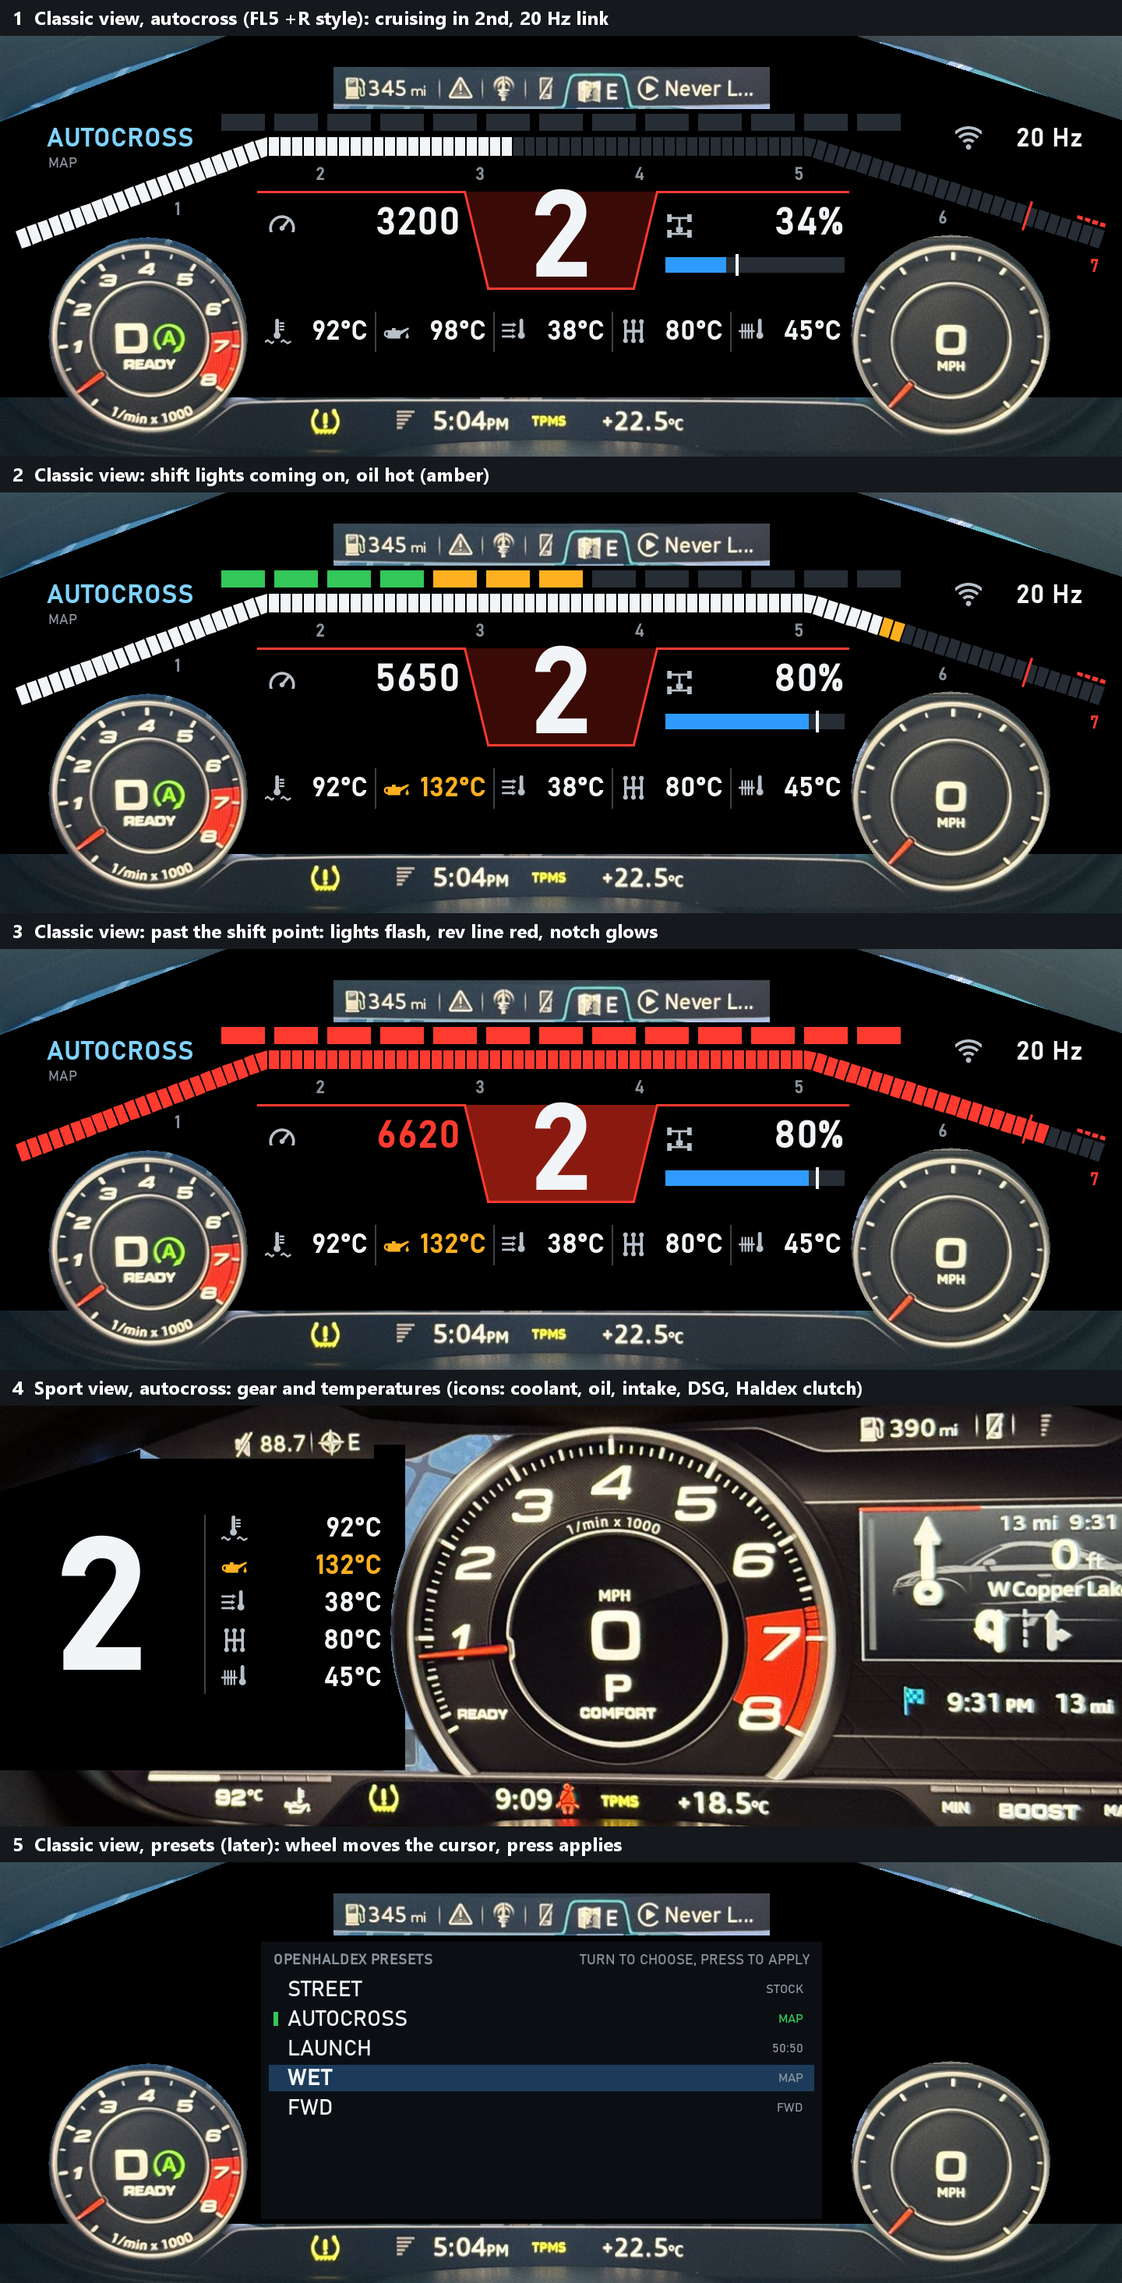
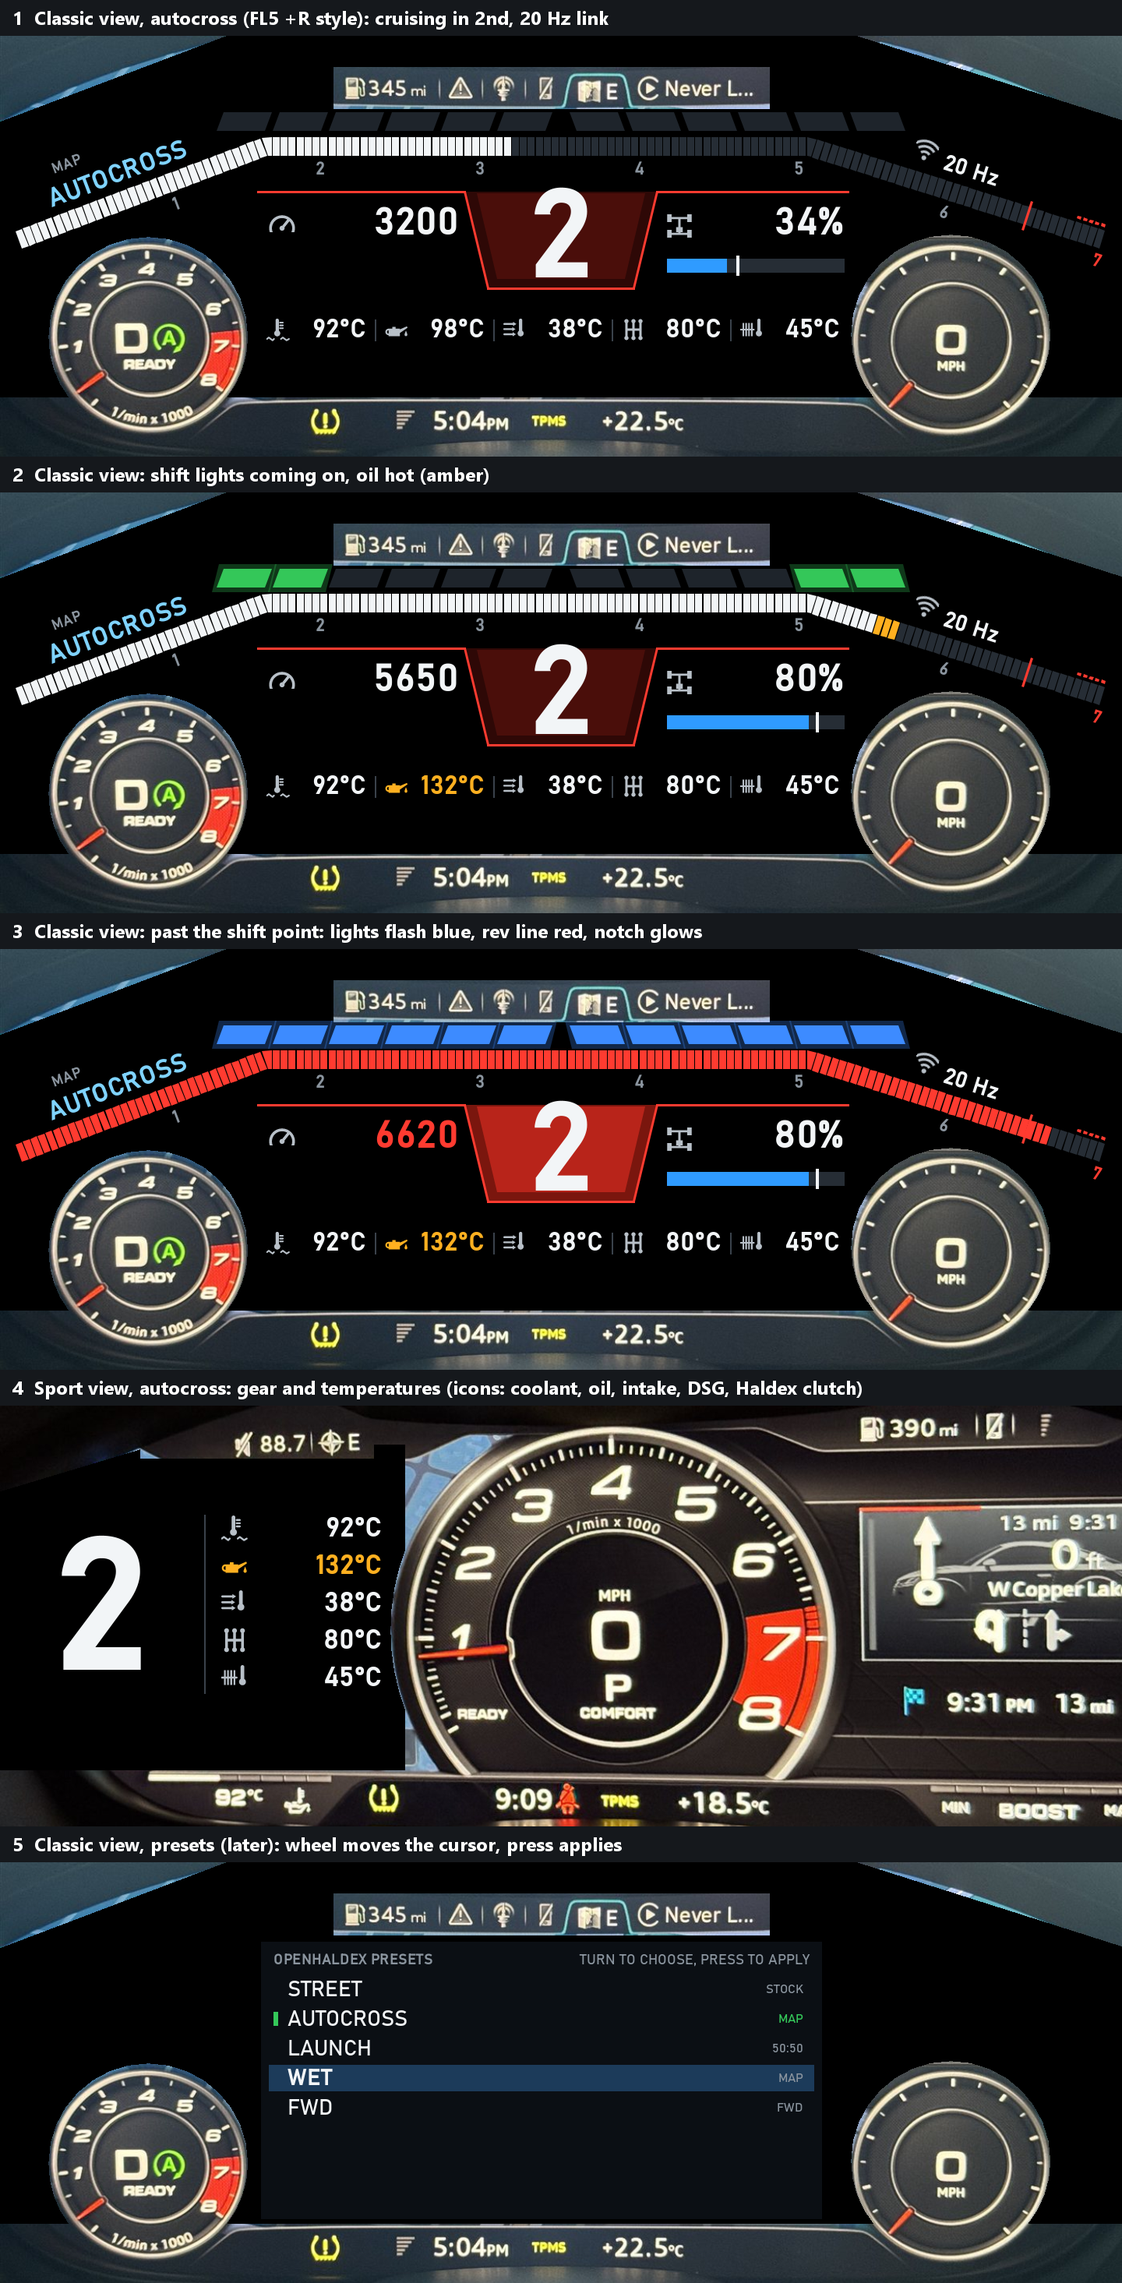
Telemetry: converging slanted shift lights with glow and blue shift flash, text tilted along the slopes, polish

diff --git a/ports/tt-8s-mu1462/hmi/src/local/tt/TeleLayout.java b/ports/tt-8s-mu1462/hmi/src/local/tt/TeleLayout.java
@@ -7,12 +7,13 @@ package local.tt;
  * It fills the whole cockpit screen with an opaque background, so no map shows. The cluster's own
  * dials, tab bar, bottom bar and the frame over the top corners are drawn above our layer, so the
  * layout keeps clear of them.
- *  - Large (Classic) view, after the FL5 Civic Type R's +R screen: shift lights under the tab bar;
+ *  - Large (Classic) view, after the FL5 Civic Type R's +R screen: slanted shift lights under the
+ *    tab bar, lighting from both ends to the middle and flashing blue at the shift point;
  *    a rev line in straight pieces following the cluster housing (up the left slope, across, down
  *    the right slope), numbers under it; a red line across with a notch in the middle holding a big
  *    gear; rpm left of the notch, Haldex lock right of it; the active preset in the pocket above the
- *    left slope, link status above the right slope (the very top corners are covered by the
- *    cluster's frame); the five temperatures in a row at the bottom, one icon per value, in C.
+ *    left slope, link status above the right slope, both tilted along the slope (the very top
+ *    corners are covered by the cluster's frame); the five temperatures in a row at the bottom, one icon per value, in C.
  *    No speed: the stock speedometer shows it.
  *  - Small (Sport) view: only the map area left of the big rev counter is ours: gear and engine
  *    temperatures, one icon per value.
@@ -42,7 +43,7 @@ public final class TeleLayout {
     public static final int LEFT = 0;
     public static final int CENTER = 1;
     public static final int RIGHT = 2;
-    public static final int MAX = 200;
+    public static final int MAX = 300;
     public static final int CHANNELS = 64;
     public static final int MAXPRESET = 8;
     public static final int SCREEN_W = 1440;
@@ -71,8 +72,12 @@ public final class TeleLayout {
     public static final int GREEN = 0x34C759FF;
     public static final int AMBER = 0xFFB020FF;
     public static final int RED = 0xFF3B30FF;
-    public static final int NOTCH = 0x3A0A07FF;
-    public static final int NOTCH_HOT = 0x8A1A10FF;
+    public static final int NOTCH = 0x2E0806FF;
+    public static final int NOTCH_IN = 0x4A0E0AFF;
+    public static final int NOTCH_HOT = 0x7A160EFF;
+    public static final int NOTCH_HOT_IN = 0xB8241AFF;
+    public static final int LED_OFF = 0x1E242BFF;
+    public static final int SHIFT = 0x3D8BFFFF;
     public static final int HALDEX = 0x2F9BFFFF;
     public static final int PRESET = 0x7FD3FFFF;
     public static final int COLD = 0x5AC8FAFF;
@@ -97,15 +102,16 @@ public final class TeleLayout {
     private static final int[] TP_X = {24, 341, 1038, 1416};
     private static final int[] TP_Y = {262, 142, 142, 262};
     private static final int TP_HALF = 12;
-    private static final int TP_SEGS = 96;
-    // Shift lights: LEDS in a row under the tab bar, LED_STEP rpm apart up to the shift point.
-    private static final int LEDS = 13;
-    private static final int LED_STEP = 125;
+    private static final int TP_SEGS = 140;
+    // Shift lights: LEDS_SIDE per side under the tab bar, lighting from both ends towards the
+    // middle, LED_STEP rpm apart up to the shift point.
+    private static final int LEDS_SIDE = 6;
+    private static final int LED_STEP = 200;
     // Red line and the notch holding the gear.
     private static final int LINE_Y = 200;
     private static final int NOTCH_X0 = 596;
     private static final int NOTCH_X1 = 844;
-    private static final int NOTCH_IN = 30;
+    private static final int NOTCH_SLOPE = 30;
     private static final int NOTCH_Y = 324;
     // Temperature row between the dials, under the notch.
     private static final int GRID_X0 = 330;
@@ -149,6 +155,8 @@ public final class TeleLayout {
     public final boolean[] bold = new boolean[MAX];
     public final boolean[] vis = new boolean[MAX];
     public final String[] text = new String[MAX];
+    /** Rotation in degrees, clockwise on screen, around the slot's (x, y). Texts and icons only. */
+    public final float[] rot = new float[MAX];
     /** Quad corners, 4 per slot (qx[4 * i + k]); x/y/w/h hold the quad's bounding box. */
     public final int[] qx = new int[MAX * 4];
     public final int[] qy = new int[MAX * 4];
@@ -175,31 +183,43 @@ public final class TeleLayout {
         boolean limit = link && rpm >= limitRpm;
         int vc = link ? WHITE : GREY;
 
-        // Shift lights under the tab bar: green, amber, red over the last LEDS * LED_STEP rpm, all
-        // red and flashing from the shift point.
-        int lw = 56;
-        int lgap = 12;
-        int lx = 720 - (LEDS * (lw + lgap) - lgap) / 2;
-        for (int i = 0; i < LEDS; i++) {
-            int on = shiftRpm - (LEDS - i) * LED_STEP;
-            int c;
-            if (over)
-                c = blink ? RED : DIM;
-            else if (link && rpm >= on)
-                c = i < 4 ? GREEN : i < 9 ? AMBER : RED;
-            else
-                c = DIM;
-            box(lx + i * (lw + lgap), 100, lw, 22, c, true);
+        // Shift lights under the tab bar, slanted like the housing's slopes, lighting from both
+        // ends towards the middle: green, amber, red over the last LEDS_SIDE * LED_STEP rpm. From
+        // the shift point all of them flash blue, so "shift now" never looks like the red zone.
+        // A lit light gets a soft glow behind it.
+        int lw = 62;
+        int lh = 24;
+        int lgap = 10;
+        int mid = 40;
+        int sk = 9;
+        int ly = 98;
+        for (int side = 0; side < 2; side++) {
+            for (int i = 0; i < LEDS_SIDE; i++) {
+                int on = shiftRpm - (LEDS_SIDE - i) * LED_STEP;
+                boolean lit = link && (over ? blink : rpm >= on);
+                int c = !lit ? LED_OFF : over ? SHIFT : i < 2 ? GREEN : i < 4 ? AMBER : RED;
+                int x0;
+                if (side == 0)
+                    x0 = 720 - mid / 2 - (LEDS_SIDE - i) * (lw + lgap) + lgap;
+                else
+                    x0 = 720 + mid / 2 + (LEDS_SIDE - 1 - i) * (lw + lgap);
+                int x1 = x0 + lw;
+                int t = side == 0 ? sk : -sk; // top edge shifted: "/" on the left, "\" on the right
+                int g = 6;
+                quad(x0 + t - g, ly - g, x1 + t + g, ly - g, x1 + g, ly + lh + g, x0 - g, ly + lh + g,
+                    (c & 0xFFFFFF00) | 0x48, lit);
+                quad(x0 + t, ly, x1 + t, ly, x1, ly + lh, x0, ly + lh, c, true);
+            }
         }
 
         // Rev line: white, amber in the last 1000 rpm before the shift point, all red from it, the
         // whole line flashing at the limiter. Red marks over the limiter range, a red tick at the
-        // shift point, 1..7 under the line.
+        // shift point, 1..7 under the line, tilted with it on the slopes.
         double len = tpLen();
         int span = barToRpm - barFromRpm;
         for (int i = 0; i < TP_SEGS; i++) {
             double s0 = len * i / TP_SEGS;
-            double s1 = len * (i + 1) / TP_SEGS - 2;
+            double s1 = len * (i + 1) / TP_SEGS - 1.2;
             int from = barFromRpm + span * i / TP_SEGS;
             int c;
             if (limit)
@@ -215,56 +235,85 @@ public final class TeleLayout {
             band(s0, s1, -TP_HALF, TP_HALF, c, true);
         }
         double sl = len * (limitRpm - barFromRpm) / span;
-        for (int i = 0; i < 4; i++)
-            band(sl + (len - sl) * i / 4, sl + (len - sl) * (i + 1) / 4 - 3, TP_HALF + 4, TP_HALF + 9, RED,
+        for (int i = 0; i < 5; i++)
+            band(sl + (len - sl) * i / 5, sl + (len - sl) * (i + 1) / 5 - 3, TP_HALF + 4, TP_HALF + 8, RED,
                 limitRpm < barToRpm);
         double ss = len * (shiftRpm - barFromRpm) / span;
         band(ss - 1.5, ss + 1.5, -TP_HALF - 7, TP_HALF + 7, RED, shiftRpm > barFromRpm && shiftRpm < barToRpm);
         for (int k = (barFromRpm + 999) / 1000; k * 1000 <= barToRpm; k++) {
             if (k == 0)
                 continue;
-            tp(len * (k * 1000 - barFromRpm) / span, pa);
-            text((int) Math.round(pa[0] - pa[2] * 36), (int) Math.round(pa[1] - pa[3] * 36) - 11, 22, true, CENTER,
+            slopeText(len * (k * 1000 - barFromRpm) / span, -(TP_HALF + 6), 22, true, CENTER,
                 k * 1000 >= shiftRpm ? RED : GREY, Integer.toString(k), true);
         }
 
-        // Red line across with the notch; the notch glows brighter from the shift point. Gear in it.
-        quad(NOTCH_X0, LINE_Y, NOTCH_X1, LINE_Y, NOTCH_X1 - NOTCH_IN, NOTCH_Y, NOTCH_X0 + NOTCH_IN, NOTCH_Y,
+        // Red line across with the notch: two layers for depth, glowing from the shift point.
+        int ni = 12;
+        quad(NOTCH_X0, LINE_Y, NOTCH_X1, LINE_Y, NOTCH_X1 - NOTCH_SLOPE, NOTCH_Y, NOTCH_X0 + NOTCH_SLOPE, NOTCH_Y,
             over ? NOTCH_HOT : NOTCH, true);
+        quad(NOTCH_X0 + ni + 4, LINE_Y + 2, NOTCH_X1 - ni - 4, LINE_Y + 2, NOTCH_X1 - NOTCH_SLOPE - ni,
+            NOTCH_Y - ni, NOTCH_X0 + NOTCH_SLOPE + ni, NOTCH_Y - ni, over ? NOTCH_HOT_IN : NOTCH_IN, true);
         box(GRID_X0, LINE_Y - 1, NOTCH_X0 - GRID_X0 + 2, 3, RED, true);
         box(NOTCH_X1 - 2, LINE_Y - 1, GRID_X1 - NOTCH_X1 + 2, 3, RED, true);
-        quad(NOTCH_X0 - 1, LINE_Y, NOTCH_X0 + 2, LINE_Y, NOTCH_X0 + NOTCH_IN + 2, NOTCH_Y,
-            NOTCH_X0 + NOTCH_IN - 1, NOTCH_Y, RED, true);
-        quad(NOTCH_X1 - 2, LINE_Y, NOTCH_X1 + 1, LINE_Y, NOTCH_X1 - NOTCH_IN + 1, NOTCH_Y,
-            NOTCH_X1 - NOTCH_IN - 2, NOTCH_Y, RED, true);
-        box(NOTCH_X0 + NOTCH_IN - 1, NOTCH_Y - 1, NOTCH_X1 - NOTCH_X0 - 2 * NOTCH_IN + 2, 3, RED, true);
+        quad(NOTCH_X0 - 1, LINE_Y, NOTCH_X0 + 2, LINE_Y, NOTCH_X0 + NOTCH_SLOPE + 2, NOTCH_Y,
+            NOTCH_X0 + NOTCH_SLOPE - 1, NOTCH_Y, RED, true);
+        quad(NOTCH_X1 - 2, LINE_Y, NOTCH_X1 + 1, LINE_Y, NOTCH_X1 - NOTCH_SLOPE + 1, NOTCH_Y,
+            NOTCH_X1 - NOTCH_SLOPE - 2, NOTCH_Y, RED, true);
+        box(NOTCH_X0 + NOTCH_SLOPE - 1, NOTCH_Y - 1, NOTCH_X1 - NOTCH_X0 - 2 * NOTCH_SLOPE + 2, 3, RED, true);
         int gc = !link ? GREY : limit && !blink ? RED : WHITE; // the notch carries the shift cue
-        text(720, 186, 150, true, CENTER, gc, gear(), true);
+        text(720, 184, 154, true, CENTER, gc, gear(), true);
 
-        // Top-left pocket, above the rising slope: the active OpenHaldex preset and its mode.
-        text(60, 116, 32, true, LEFT, link ? PRESET : GREY, presetName(), true);
-        text(62, 154, 18, false, LEFT, GREY, presetMode(), true);
+        // Top-left pocket, along the rising slope: the active OpenHaldex preset, its mode above it.
+        double l0 = segLen(0);
+        slopeText(l0 * 0.16, TP_HALF + 12, 32, true, LEFT, link ? PRESET : GREY, presetName(), true);
+        slopeText(l0 * 0.16 + 18, TP_HALF + 52, 18, true, LEFT, GREY, presetMode(), true);
 
-        // Top-right pocket, above the falling slope: the link to OpenHaldex, datagrams per second.
+        // Top-right pocket, along the falling slope: the link to OpenHaldex, datagrams per second.
+        double r0 = len - segLen(TP_X.length - 2);
         boolean slow = link && rateHz >= 0 && rateHz < 10;
-        icon(1226, 114, 34, TeleIcons.WIFI, link && !slow ? ICONC : AMBER, true);
-        text(1390, 116, 32, true, RIGHT, link && !slow ? WHITE : AMBER, linkText(), true);
+        slopeIcon(r0 + 130, TP_HALF + 14, 30, TeleIcons.WIFI, link && !slow ? ICONC : AMBER, true);
+        slopeText(r0 + 172, TP_HALF + 12, 28, true, LEFT, link && !slow ? WHITE : AMBER, linkText(), true);
 
         // Left of the notch: rpm. Right of it: Haldex lock, big percent over a bar with target tick.
         icon(GRID_X0 + 14, 226, 36, TeleIcons.TACH, ICONC, true);
-        text(NOTCH_X0 - 6, 216, 48, true, RIGHT, over ? RED : vc, ok(CH_RPM) ? Integer.toString(rpm) : "-", link);
-        text(NOTCH_X0 - 6, 216, 34, true, RIGHT, AMBER, "NO LINK", !link);
+        text(NOTCH_X0 - 8, 216, 48, true, RIGHT, over ? RED : vc, ok(CH_RPM) ? Integer.toString(rpm) : "-", link);
+        text(NOTCH_X0 - 8, 220, 34, true, RIGHT, AMBER, "NO LINK", !link);
         icon(NOTCH_X1 + 10, 226, 36, TeleIcons.AWD, ICONC, true);
-        hxBar(NOTCH_X1 + 10, 284, GRID_X1 - NOTCH_X1 - 16, 20, GRID_X1 - 6, 216, 48);
+        hxBar(NOTCH_X1 + 12, 286, GRID_X1 - NOTCH_X1 - 18, 18, GRID_X1 - 6, 216, 48);
 
-        // Temperatures in one row, an icon and a value in each cell.
+        // Temperatures in one row, an icon and a value in each cell, short dividers between.
         int cw = (GRID_X1 - GRID_X0) / T_CH.length;
         for (int t = 0; t < T_CH.length; t++) {
             int cx0 = GRID_X0 + t * cw;
             if (t > 0)
-                box(cx0 - 1, GRID_Y - 8, 2, 52, LINE, true);
-            tempCell(t, cx0 + 10, cx0 + cw - 10, GRID_Y, 34, 34, rpm);
+                box(cx0 - 1, GRID_Y + 2, 2, 28, LINE, true);
+            tempCell(t, cx0 + 12, cx0 + cw - 12, GRID_Y, 30, 32, rpm);
         }
+    }
+
+    /** Text along the rev line at length s, off px out from its centre (negative: under it). */
+    private void slopeText(double s, double off, int sz, boolean b, int al, int c, String str, boolean v) {
+        tp(s, pa);
+        double out = off >= 0 ? off + 0.82 * sz : off; // anchor is the text's top edge
+        int i = add(TEXT, rd(pa[0] + pa[2] * out), rd(pa[1] + pa[3] * out), 0, sz, c, v && str != null);
+        size[i] = sz;
+        bold[i] = b;
+        align[i] = al;
+        text[i] = str;
+        rot[i] = (float) Math.toDegrees(Math.atan2(pa[2], -pa[3]));
+    }
+
+    /** Icon standing on the rev line at length s, its bottom edge off px out from the centre. */
+    private void slopeIcon(double s, double off, int px, int id, int c, boolean v) {
+        tp(s, pa);
+        double out = off + px;
+        int i = add(ICON, rd(pa[0] + pa[2] * out), rd(pa[1] + pa[3] * out), px, px, c, v);
+        size[i] = id;
+        rot[i] = (float) Math.toDegrees(Math.atan2(pa[2], -pa[3]));
+    }
+
+    private static double segLen(int k) {
+        return Math.sqrt(sq(TP_X[k + 1] - TP_X[k]) + sq(TP_Y[k + 1] - TP_Y[k]));
     }
 
     private String linkText() {
@@ -476,6 +525,7 @@ public final class TeleLayout {
         size[i] = 0;
         bold[i] = false;
         align[i] = LEFT;
+        rot[i] = 0;
         return i;
     }
 

diff --git a/ports/tt-8s-mu1462/gauges/tools/TelePreview.java b/ports/tt-8s-mu1462/gauges/tools/TelePreview.java
@@ -40,7 +40,7 @@ public class TelePreview {
         String[] caps = {
             "1  Classic view, autocross (FL5 +R style): cruising in 2nd, 20 Hz link",
             "2  Classic view: shift lights coming on, oil hot (amber)",
-            "3  Classic view: past the shift point: lights flash, rev line red, notch glows",
+            "3  Classic view: past the shift point: lights flash blue, rev line red, notch glows",
             "4  Sport view, autocross: gear and temperatures (icons: coolant, oil, intake, DSG, Haldex clutch)",
             "5  Classic view, presets (later): wheel moves the cursor, press applies"};
         BufferedImage out = new BufferedImage(1440, caps.length * (540 + CAP), BufferedImage.TYPE_INT_RGB);
@@ -153,6 +153,9 @@ public class TelePreview {
             if (!t.vis[i])
                 continue;
             int c = t.rgba[i];
+            java.awt.geom.AffineTransform saved = g.getTransform();
+            if (t.rot[i] != 0)
+                g.rotate(Math.toRadians(t.rot[i]), t.x[i], t.y[i]);
             g.setColor(new Color((c >>> 24) & 0xFF, (c >>> 16) & 0xFF, (c >>> 8) & 0xFF, c & 0xFF));
             if (t.kind[i] == TeleLayout.BOX) {
                 g.fillRect(t.x[i], t.y[i], t.w[i], t.h[i]);
@@ -181,6 +184,7 @@ public class TelePreview {
                     x -= tw;
                 g.drawString(t.text[i], x, t.y[i] + Math.round(0.82f * t.size[i]));
             }
+            g.setTransform(saved);
         }
     }
 }

diff --git a/ports/tt-8s-mu1462/wiki/Telemetry.md b/ports/tt-8s-mu1462/wiki/Telemetry.md
@@ -190,15 +190,19 @@ wsl -d Ubuntu-24.04 -u root -- sh -c 'cd /mnt/c/.../gauges/headunit && docker ru
   screen do not show). A slot cut by them is a collision.
   - The map is hidden by our own opaque full-screen layer; CarPlay keeps running underneath, so
     switching back is instant. Our turn panel hides while the autocross view shows.
-  - Classic view: 13 shift lights under the tab bar (green, amber, red over the last 1625 rpm, all
-    red and flashing from the shift point). The rev line (24 px) is made of straight pieces that
+  - Classic view: 12 shift lights under the tab bar, slanted like the housing's slopes, lighting
+    from both ends towards the middle (green, amber, red over the last 1200 rpm, a soft glow behind
+    each lit one); from the shift point all flash **blue**, so "shift now" never looks like the red
+    zone. The rev line (24 px) is made of straight pieces that
     follow the cluster housing: up along the frame's top-left edge, flat under the shift lights,
     down along the top-right edge; 1..7 under it (white, amber in the last 1000 rpm before the
     shift point, all red from it, flashing at the limiter; red marks over the limiter range, red
-    tick at the shift point). The pockets above the two slopes hold the active OpenHaldex preset
-    and its mode (top left) and the link (top right: datagrams per second, amber under 10 Hz,
-    "NO LINK" when nothing arrives). A red line across with a notch in the middle holding the
-    gear; the notch glows brighter from the shift point. Rpm left of the notch, Haldex lock right
+    tick at the shift point; the numbers on the slopes tilt with them). The pockets above the two
+    slopes hold the active OpenHaldex preset and its mode (top left) and the link (top right: datagrams per second, amber under 10 Hz,
+    "NO LINK" when nothing arrives), both tilted along the slope. Tilted text and icons need EAL
+    `setRotationZ` on the car, untested (the dial sketch never calibrated degrees vs radians or the
+    sign); if it does not work they fall back to level. A red line across with a notch in the middle holding the
+    gear; the notch has two layers for depth and glows brighter from the shift point. Rpm left of the notch, Haldex lock right
     of it (big percent over a bar with the target tick). The five temperatures in one row at the
     bottom, one icon per value, no labels: coolant, oil, intake, DSG, Haldex clutch. Values turn
     amber or red out of range, blue when the oil is cold. No speed (the stock speedometer shows
